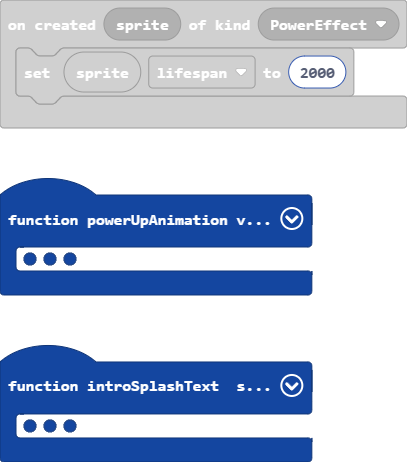
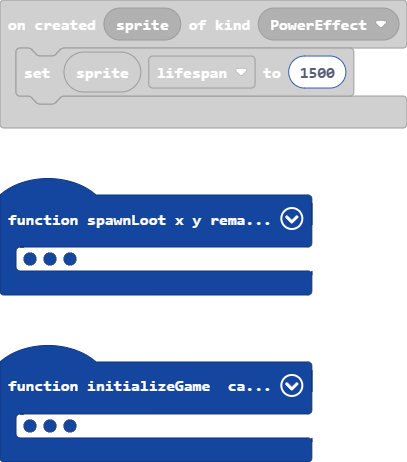
loot rebalanced

diff --git a/main.ts b/main.ts
@@ -586,7 +586,7 @@ sprites.onOverlap(SpriteKind.Viking, SpriteKind.PlasmaPickup, function (sprite, 
 })
 function spawnLoot (x: Sprite, y: Sprite, remaining: number) {
     if (remaining > 0) {
-        if (Math.percentChance(80)) {
+        if (Math.percentChance(10)) {
             spawnPowerUp(x)
             powerupsRemaining += -1
         }
@@ -2878,7 +2878,7 @@ function createDroneRocketTrails () {
     }
 }
 sprites.onCreated(SpriteKind.PowerEffect, function (sprite) {
-    sprite.lifespan = 2000
+    sprite.lifespan = 1500
 })
 function initializePlayerAssets () {
     // 0 - placeholder
